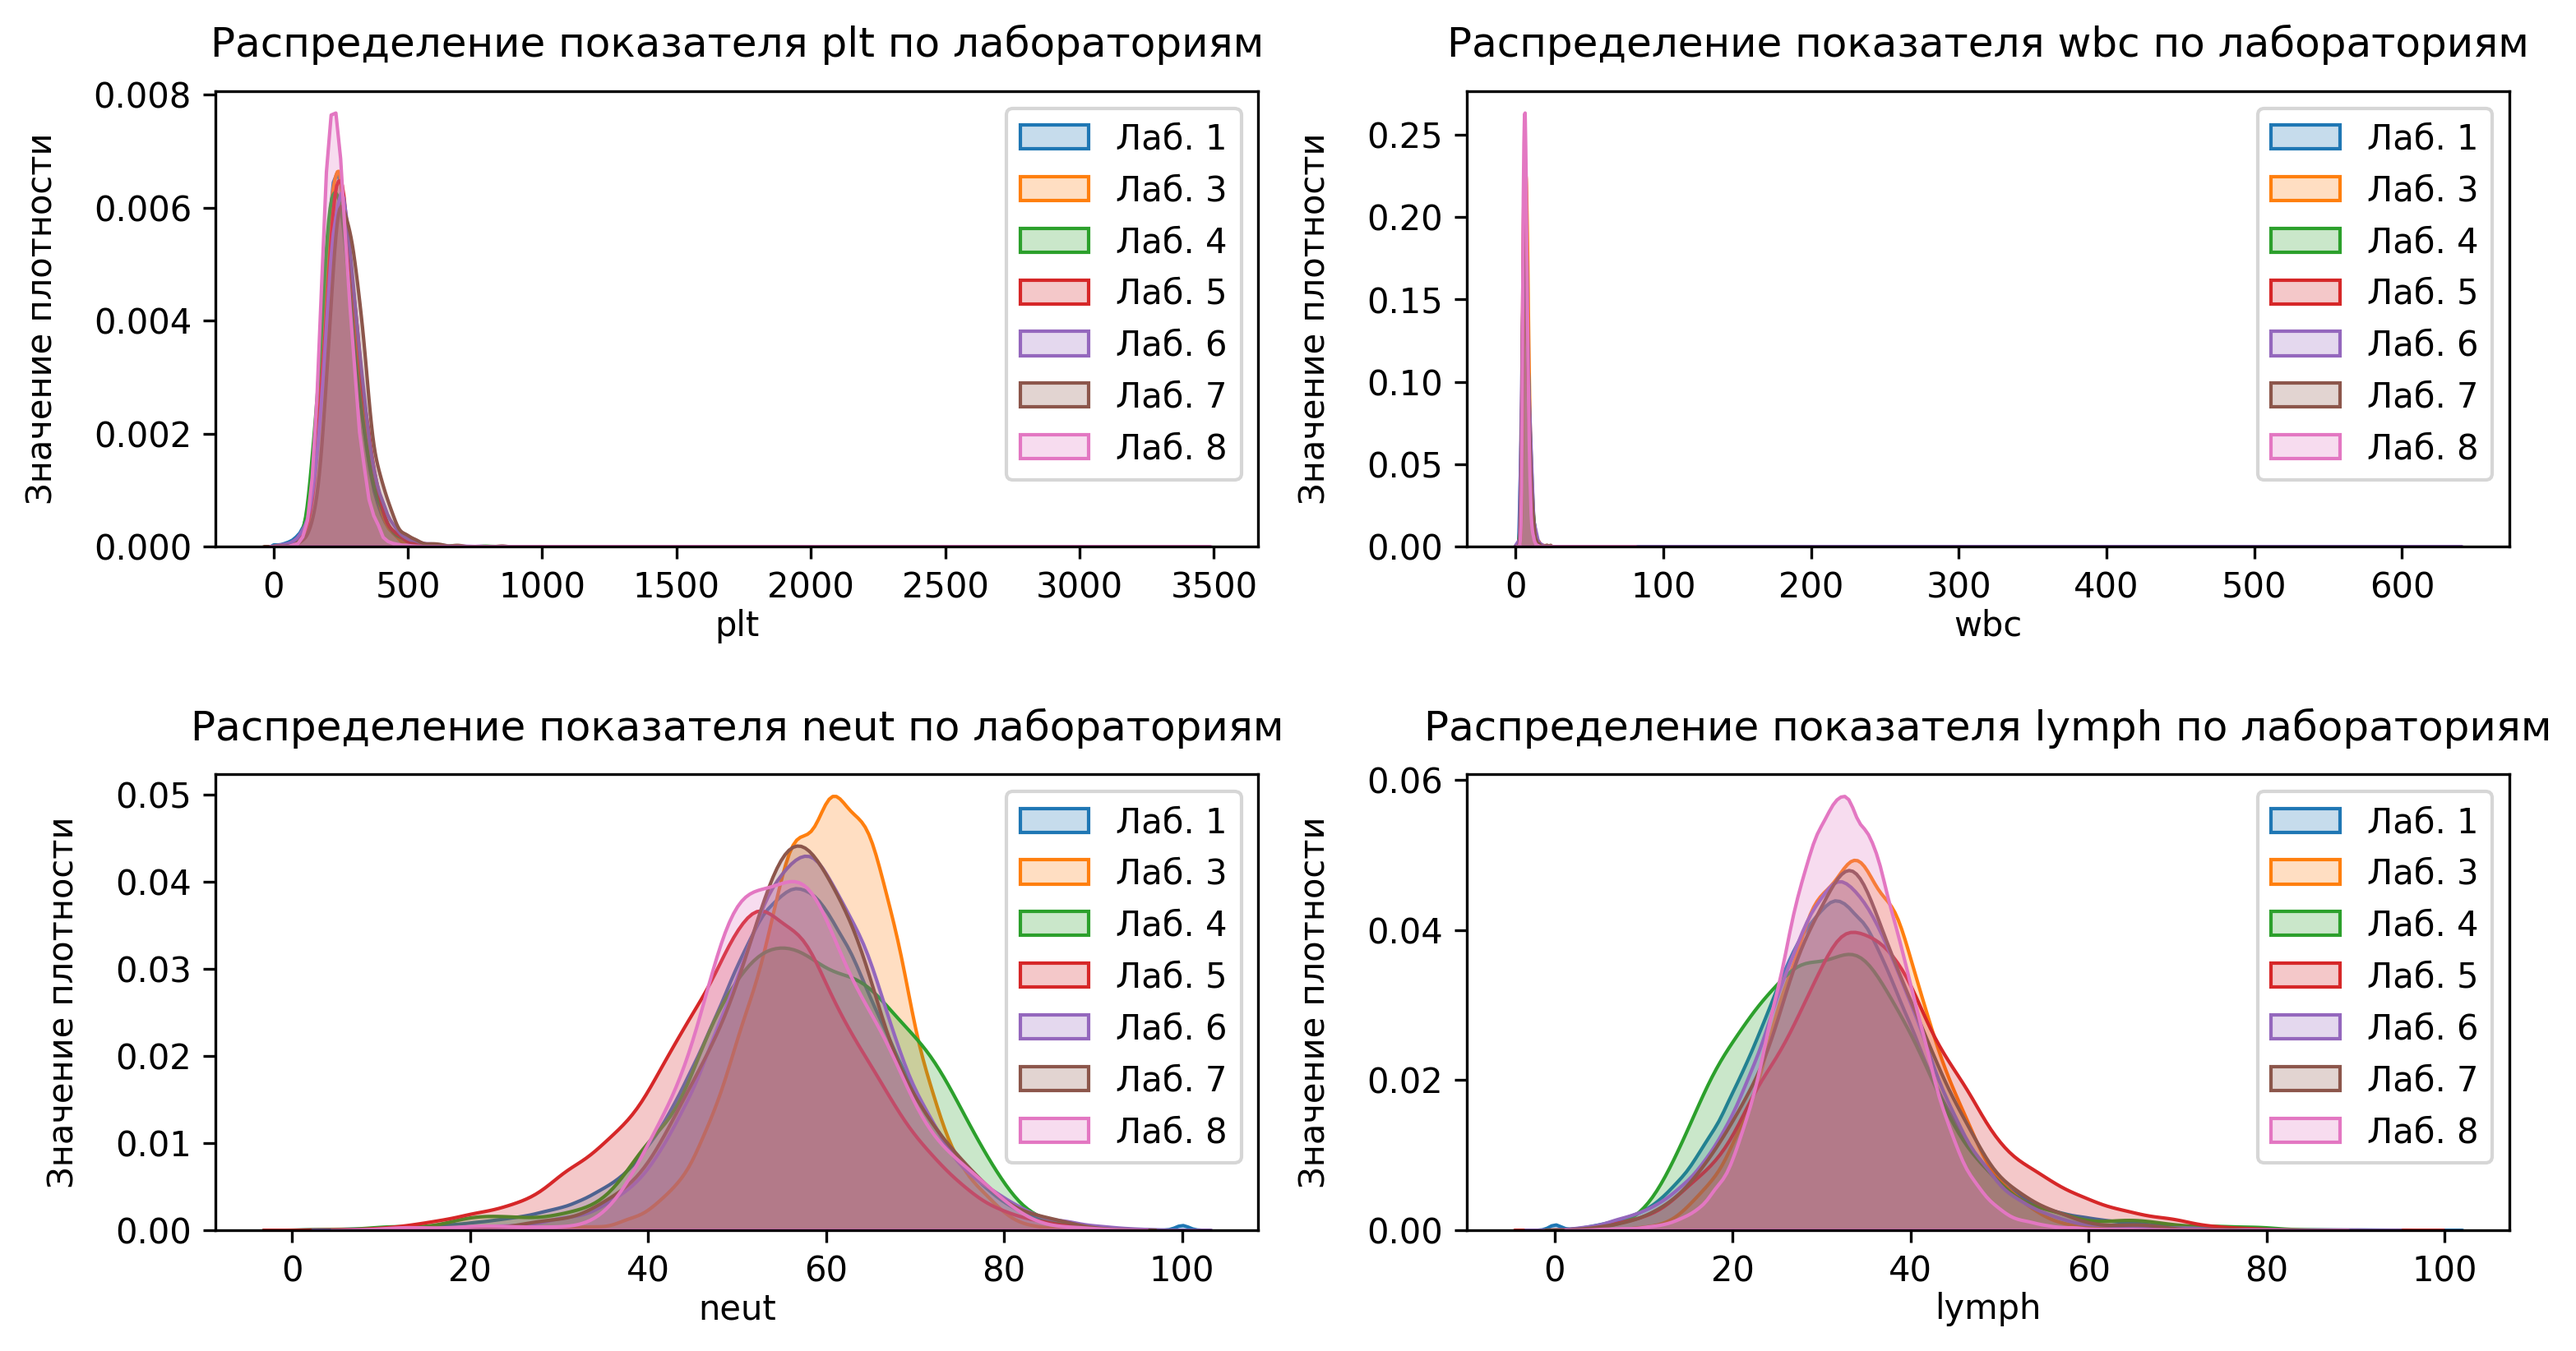
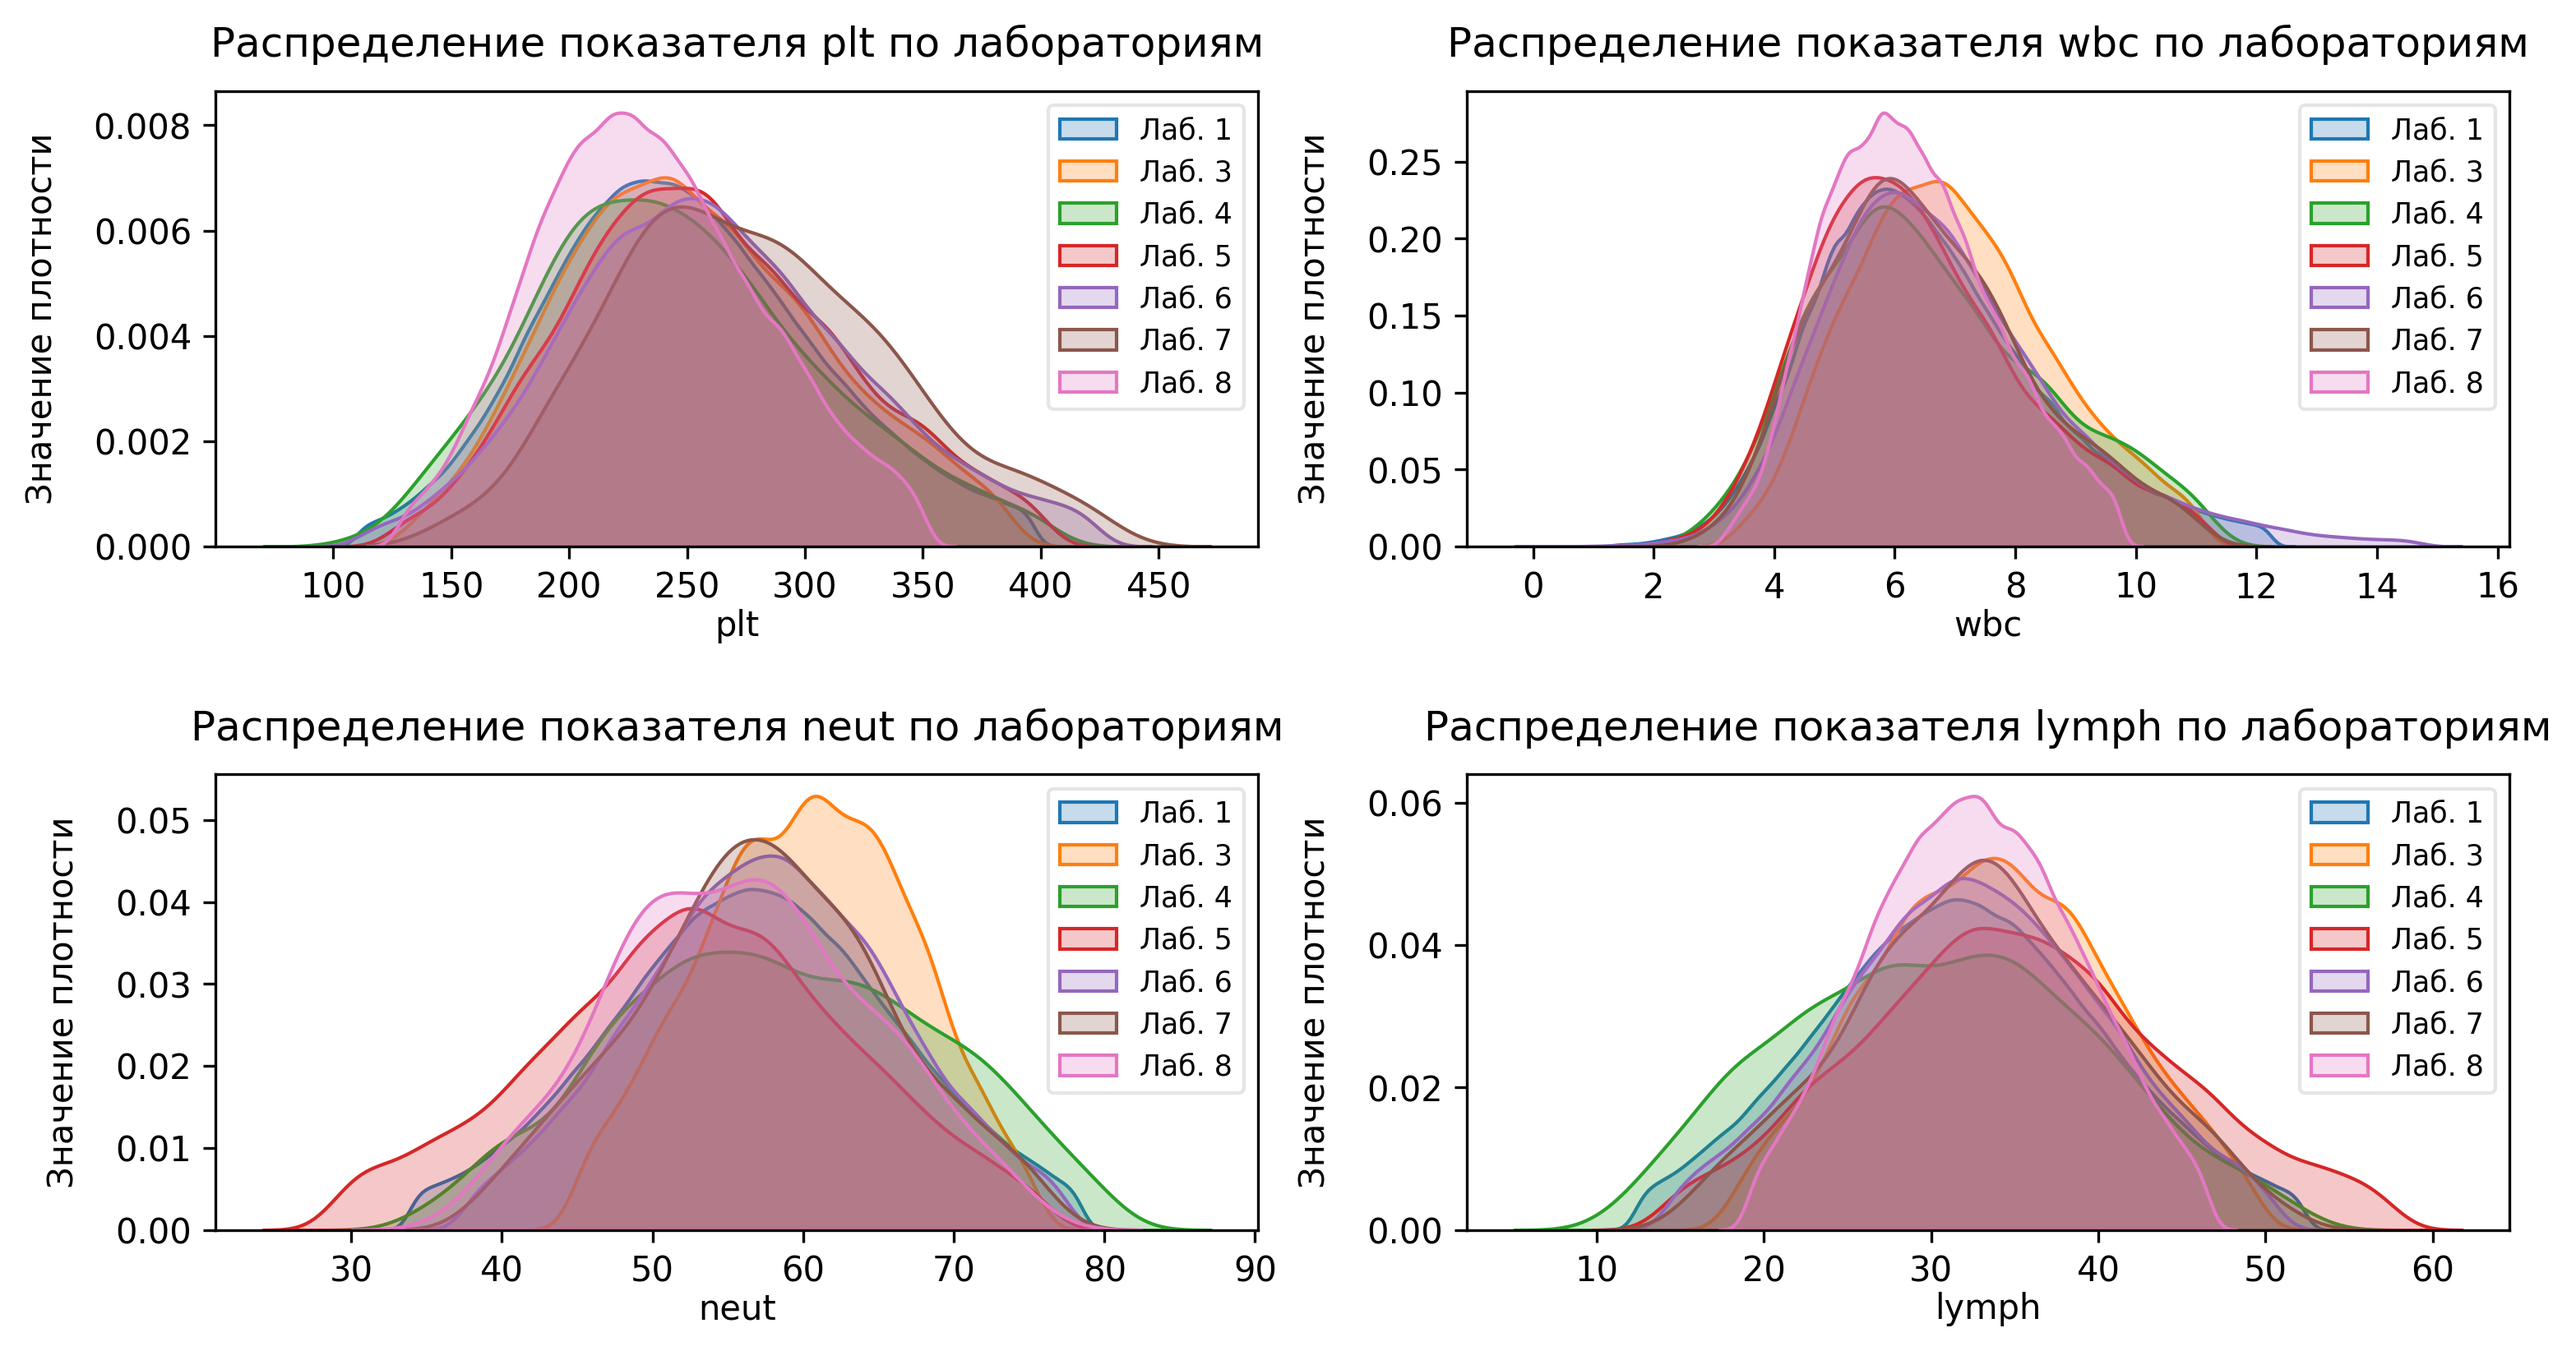
add z_score

diff --git a/analytics.py b/analytics.py
@@ -49,8 +49,9 @@ legend_men = mpatches.Patch(color="lightblue", label="Мужчины")
 legend_women = mpatches.Patch(color="pink", label="Женщины")
 plt.legend(handles=[legend_women, legend_men], loc="upper right")
 
-# plt.savefig("./browse_data_images/gender_hist.png", dpi=300)
+plt.savefig("./browse_data_images/gender_hist.png", dpi=300)
 
+z_score = 1.96
 for g in range(len(labels) // 4):
     rows, cols = 2, 2
     fig, axes = plt.subplots(rows, cols, figsize=(12, 6))
@@ -63,35 +64,43 @@ for g in range(len(labels) // 4):
             axes[i, j].set_xlabel(f"{parameter}", labelpad=1)
             axes[i, j].set_ylabel("Значение плотности", labelpad=10)
             statistic[parameter] = {}
+
             for k in range(labs_id.size):
                 lab = f"lab_id{labs_id[k]}"
                 statistic[parameter][lab] = {}
                 data = df[df["lab_id"] == labs_id[k]].filter(items=[parameter])
-                statistic[parameter][lab]["min"] = round(
-                    float((data[parameter].min())), 4
+
+                min_value = float((data[parameter].min()))
+                max_value = float((data[parameter].max()))
+                mean_value = float((data[parameter].mean()))
+                std_value = float((data[parameter].std()))
+
+                statistic[parameter][lab]["min"] = round(min_value, 4)
+                statistic[parameter][lab]["max"] = round(max_value, 4)
+                statistic[parameter][lab]["mean"] = round(mean_value, 4)
+                statistic[parameter][lab]["std"] = round(std_value, 4)
+
+                low, high = (
+                    mean_value - z_score * std_value,
+                    mean_value + z_score * std_value,
                 )
-                statistic[parameter][lab]["max"] = round(
-                    float(data[parameter].max()), 4
-                )
-                statistic[parameter][lab]["mean"] = round(
-                    float(data[parameter].mean()), 4
-                )
-                statistic[parameter][lab]["std"] = round(
-                    float(data[parameter].std()), 4
-                )
-                if math.isnan(data[parameter].std()):
+                data = data[(data[parameter] >= low) & (data[parameter] <= high)]
+
+                if math.isnan(std_value):
                     statistic[parameter][lab]["std"] = round(-1.0, 4)
                     print(
                         f"Дисперсия NaN у показателя {parameter} в лаборатории {labs_id[k]}"
                     )
                     continue
+
                 sns.kdeplot(
                     data[parameter],
                     ax=axes[i, j],
                     fill=True,
                     label=f"Лаб. {labs_id[k]}",
+                    bw_adjust=1.0,
                 )
-            axes[i, j].legend(loc="upper right")
+            axes[i, j].legend(loc="upper right", fontsize="small", framealpha=0.5)
     plt.subplots_adjust(hspace=0.5)
     plt.savefig(
         f"./browse_data_images/lab_dist_page_{g + 1}.png", dpi=300, bbox_inches="tight"

diff --git a/test2.py b/test2.py
@@ -1,4 +1,38 @@
-dict_c = {"a": 1, "b": 2}
-updates = [("b", 3), ("c", 4)]  # список кортежей
-dict_c.update(updates)
-print(dict_c)
+import numpy as np
+import pandas as pd
+import matplotlib.pyplot as plt
+import seaborn as sns
+
+df = pd.read_csv("./data/lab.csv", sep=",", dtype={"sampleno": str, "hgb": float})
+
+labs_id = np.unique(df["lab_id"].values.ravel())
+print(labs_id)
+print(labs_id.size)
+
+parameter = "wbc"
+
+fig, axes = plt.subplots(1, 1, figsize=(12, 6))
+axes.set_title(f"Распределение показателя {parameter} по лабораториям", pad=10)
+axes.set_xlabel(f"{parameter}", labelpad=1)
+axes.set_ylabel("Значение плотности", labelpad=10)
+
+z_score = 1.96
+mean = df[parameter].mean()
+std = df[parameter].std()
+low, high = mean - z_score * std, mean + z_score * std
+
+for i in range(labs_id.size):
+    lab = f"lab_id{labs_id[i]}"
+    data = df[
+        (df["lab_id"] == labs_id[i]) & (df[parameter] >= low) & (df[parameter] <= high)
+    ].filter(items=[parameter])
+    sns.kdeplot(
+        data[parameter],
+        ax=axes,
+        fill=True,
+        label=f"Лаб. {labs_id[i]}",
+    )
+axes.legend(loc="upper right")
+plt.subplots_adjust(hspace=0.5)
+plt.savefig(f"./browse_data_images/wbc_dist_by_labs.png", dpi=300, bbox_inches="tight")
+plt.show()
